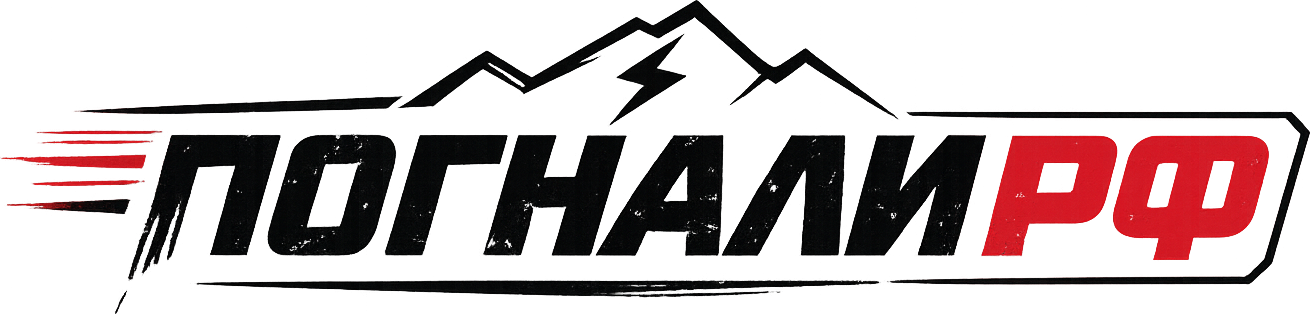
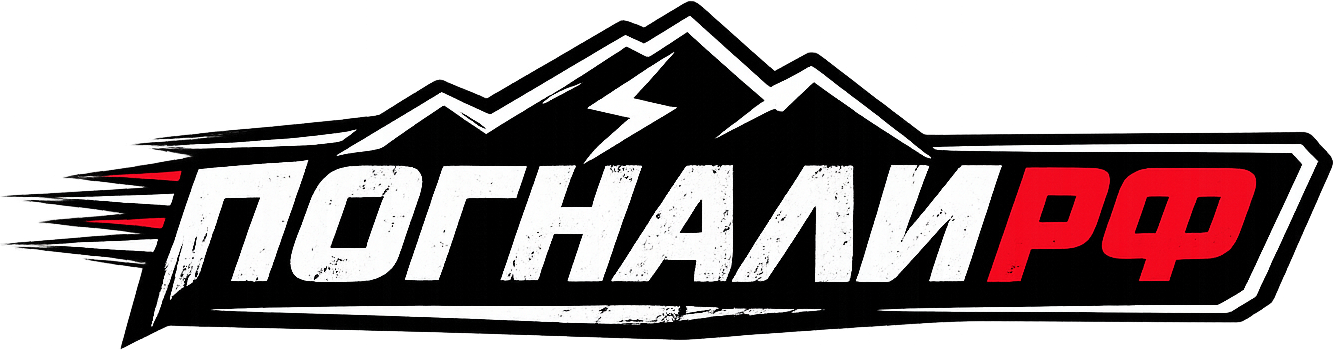
Версия 1.2.0: базовым стал фирменный логотип-плашка, на 2-й карточке по умолчанию нет линии и есть логотип снизу.

diff --git a/ui/parse.js b/ui/parse.js
@@ -146,9 +146,10 @@ export function parseData(text) {
     accent: /^#[0-9a-f]{3,8}$/i.test(accentRaw) ? accentRaw : (accentRaw ? colorByName(accentRaw) : ORANGE),
     theme: /^(да|yes|1|true|тёмн|темн)/i.test(fields['тёмная тема'] || fields['темная тема'] || '') ? 'dark' : 'light',
     removeBg: /^(да|yes|1|true)$/i.test(fields['удалять фон'] || 'да'),
-    logoOnSecond: /^(да|yes|1|true)$/i.test(fields['логотип на второй'] || ''),
-    // По умолчанию линия есть: в старых файлах строки нет, а раньше её рисовали всегда.
-    divider: !/^(нет|no|0|false)$/i.test(fields['разделитель'] || 'да'),
+    // По образцу босса: на второй карточке логотип снизу есть, полосы между
+    // колонками нет — поэтому у обоих значения по умолчанию перевёрнуты.
+    logoOnSecond: /^(да|yes|1|true)$/i.test(fields['логотип на второй'] || 'да'),
+    divider: /^(да|yes|1|true)$/i.test(fields['разделитель'] || 'нет'),
     corners: /^(да|yes|1|true)$/i.test(fields['уголки'] || ''),
     battery,
     footer,
@@ -261,10 +262,10 @@ export function parseCatalog(text) {
 export function emptyData() {
   return {
     brand: '', model: '', version: '',
-    accent: ORANGE, theme: 'light', removeBg: true, logoOnSecond: false, corners: false, tolerance: 38,
+    accent: ORANGE, theme: 'light', removeBg: true, logoOnSecond: true, corners: false, tolerance: 38,
     background: 'горы', tintBg: true,   // подложка с горами — базовый вариант
     background2: '',                    // пусто = вторая карточка берёт фон первой
-    divider: true,                      // полоса между названием и заголовком 2-й карточки
+    divider: false,                     // полоса между названием и заголовком 2-й карточки
     transforms: {},
     slotFiles: {},                      // слот → имя файла, закреплённого вручную
     battery: { ...BATTERY_PRESET },

diff --git a/ui/index.html b/ui/index.html
@@ -65,8 +65,8 @@
         <label class="check"><input type="checkbox" id="f-removebg" checked> Убирать фон у фото</label>
         <label class="check"><input type="checkbox" id="f-dark"> Тёмный фон</label>
         <label class="check"><input type="checkbox" id="f-corners"> Уголки в рамке</label>
-        <label class="check"><input type="checkbox" id="f-logo2"> Логотип на 2-й</label>
-        <label class="check"><input type="checkbox" id="f-divider" checked> Линия на 2-й</label>
+        <label class="check"><input type="checkbox" id="f-logo2" checked> Логотип на 2-й</label>
+        <label class="check"><input type="checkbox" id="f-divider"> Линия на 2-й</label>
       </div>
     </div>
 
